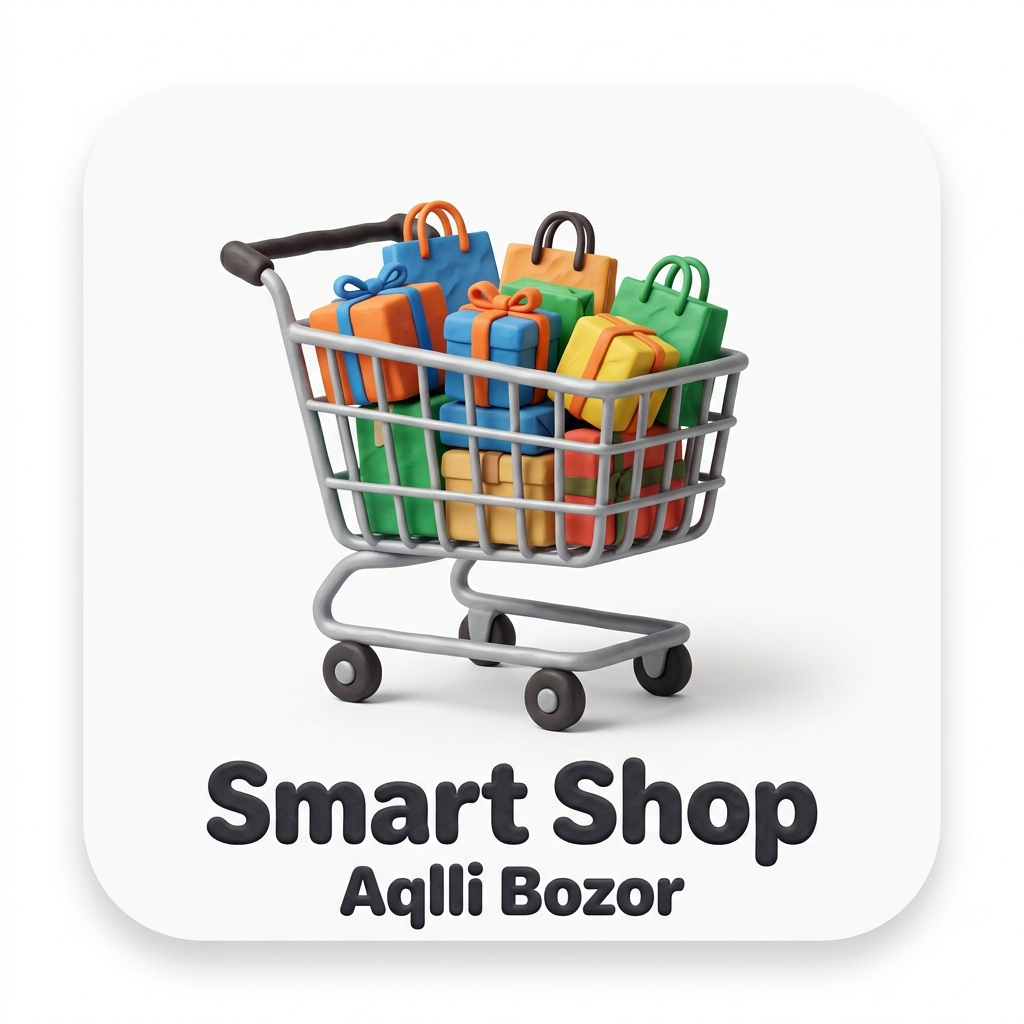
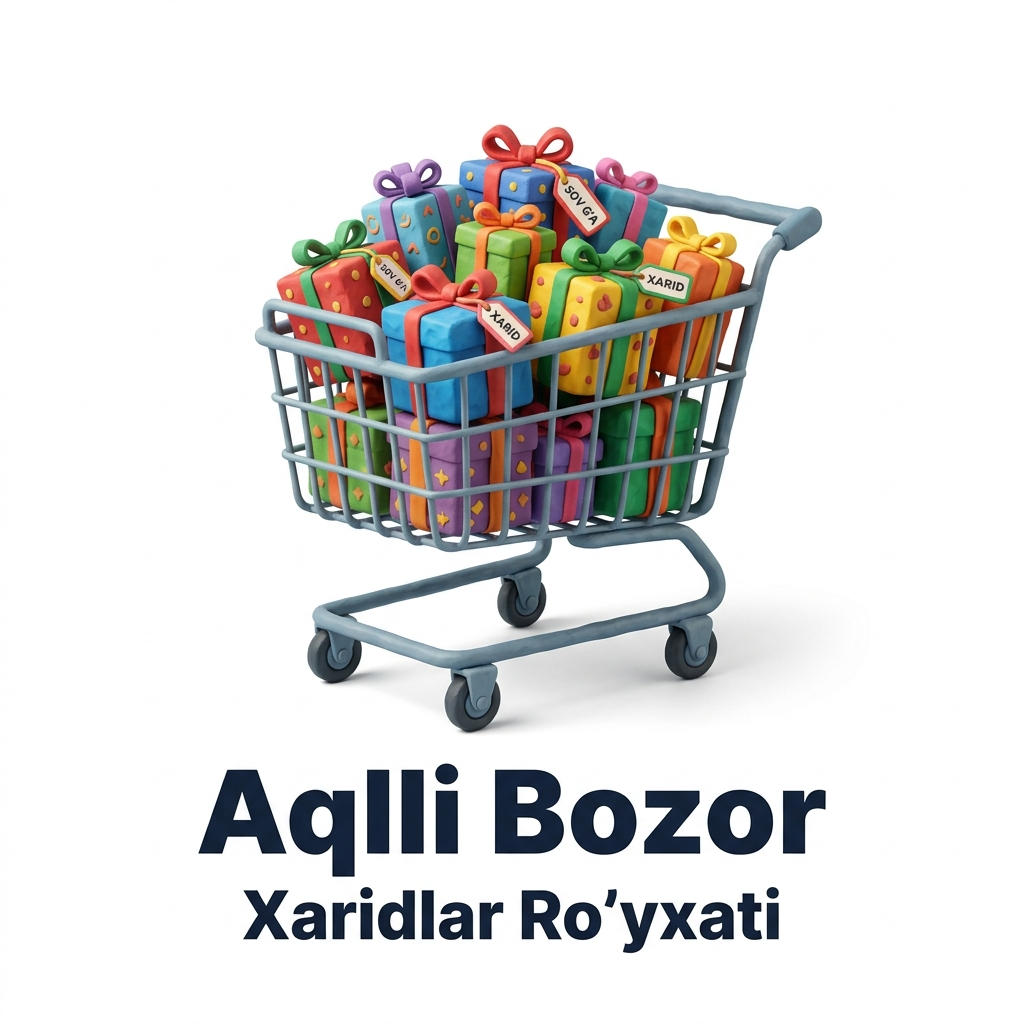
dizayn: 6 ta karta uchun o'zbekcha yozuvli va ramkasiz toza 3D rasmlar o'rnatildi

Changed region(s): [[0.0625, 0.125, 0.9375, 0.9688]]

diff --git a/lib/screens/home_screen.dart b/lib/screens/home_screen.dart
@@ -670,11 +670,14 @@ class _DailyBtn extends StatelessWidget {
               // Ichki kontent (rasm yoki belgi+matn)
               if (bgImage != null)
                 Positioned.fill(
-                  child: ClipRRect(
-                    borderRadius: BorderRadius.circular(18),
-                    child: Image.asset(
-                      bgImage!,
-                      fit: BoxFit.cover,
+                  child: Padding(
+                    padding: const EdgeInsets.all(8),
+                    child: ClipRRect(
+                      borderRadius: BorderRadius.circular(14),
+                      child: Image.asset(
+                        bgImage!,
+                        fit: BoxFit.contain,
+                      ),
                     ),
                   ),
                 )
